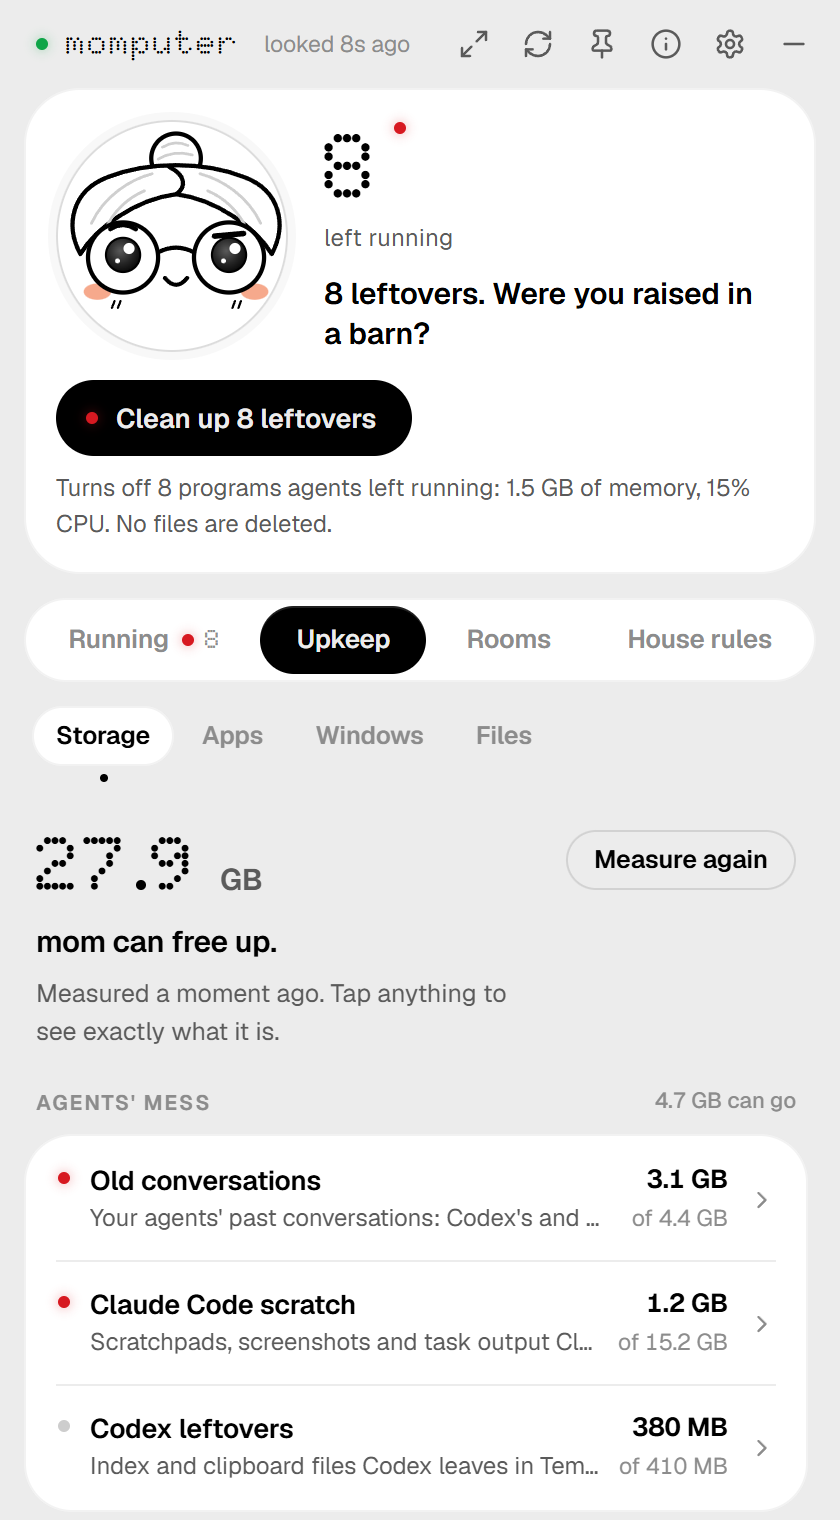
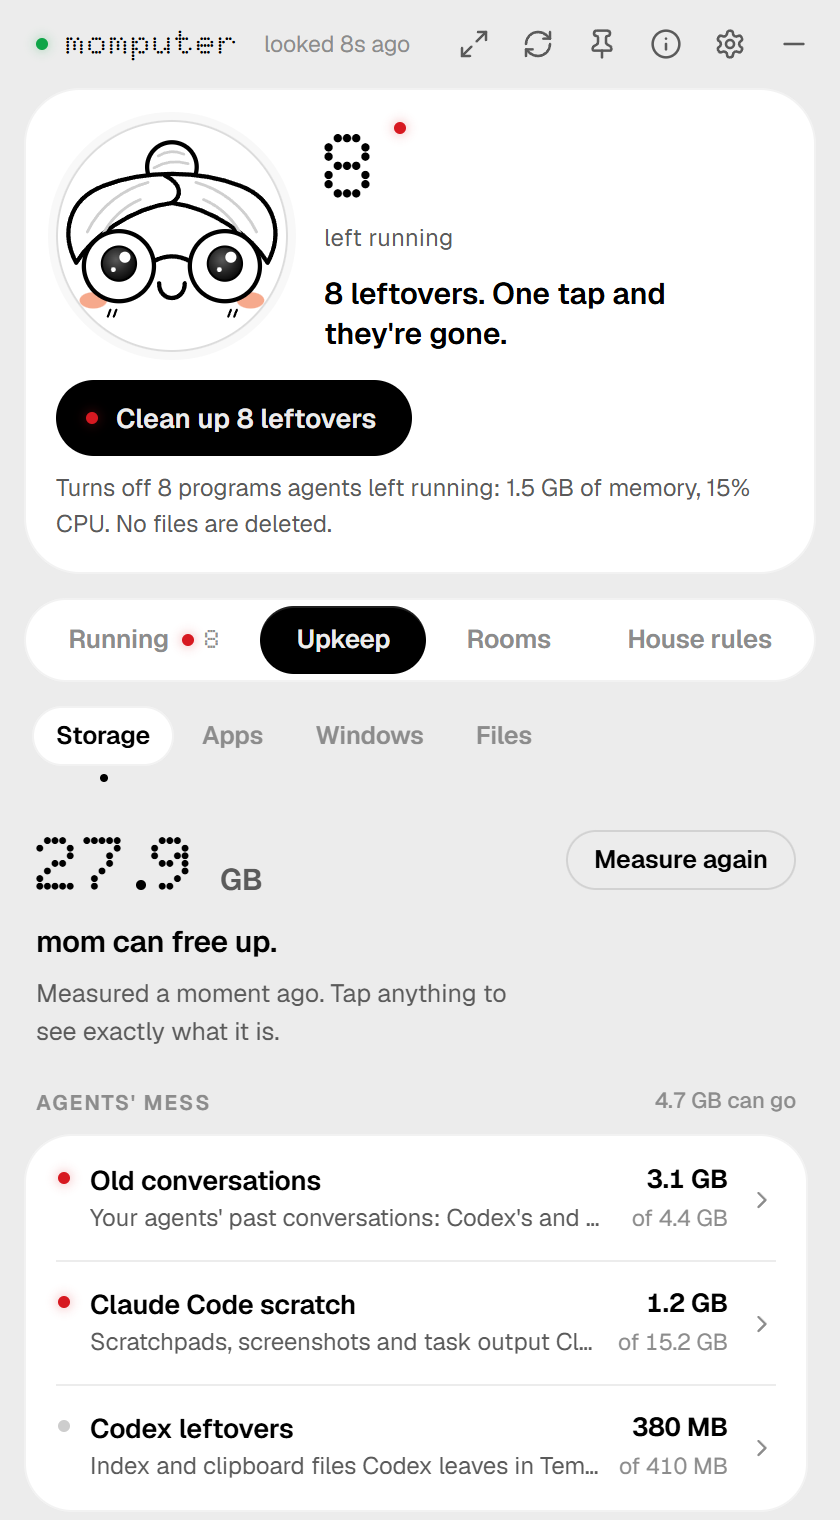
Mom helps; she doesn't tell anyone off
Her voice was 'warm, a little sassy': 'I'm not mad. I'm disappointed.', 'Were
you raised in a barn?', 'I'm counting to three.' All of it is supportive now,
everywhere she speaks: the home page ('8 leftovers. One tap and they're
gone.'), the notifications ('A few things are still running', 'Your computer
is working hard'), room grades, BIG MODE, the playroom, the mom command, and
what she tells an agent at a check-in.

Her face follows: the usual smile for a handful of leftovers and a thoughtful
look for a lot. The flat, stern and cross looks are gone.

A test goes through everything she can say about leftovers, clean-ups and
rooms and fails on any word of blame. Pictures remade from the app.

Changed region(s): [[0.0619, 0.0618, 0.3405, 0.2164], [0.5881, 0.1855, 0.8976, 0.2164], [0.3714, 0.2164, 0.5881, 0.2474]]

diff --git a/app/ui/app.js b/app/ui/app.js
@@ -349,8 +349,9 @@
   const lookedAgo = () => (state.snap ? Math.max(0, Math.floor(Date.now() / 1000) - state.snap.takenAt) : 0);
   const stale = () => !state.paused && !!state.snap && lookedAgo() > 20;
 
-  /** Mostly she smiles, "c:". A raised eyebrow once a few things pile up, a flat look when it's a
-      lot, and a stern one only when it's really bad. The light by her name says if she's stuck. */
+  /** Mostly she smiles, "c:". A thoughtful look once a lot piles up, and a worried one while
+      leftovers keep the processor busy. Never a cross one: she helps, she doesn't tell anyone off.
+      The light by her name says if she's stuck. */
   function faceNow() {
     const s = state.snap;
     if (state.paused) return "asleep";
@@ -359,10 +360,10 @@
     if (!s) return "look";
     if (melting(s)) return "melting";
     switch (s.mood.face) {
-      case "disappointed":
-        return s.mood.level >= 3 ? "unamused" : "hmm";
-      case "furious":
-        return "stern";
+      case "helping":
+        return s.mood.level >= 3 ? "hmm" : "look";
+      case "busy":
+        return "hmm";
       default:
         return "look";
     }
@@ -435,7 +436,7 @@
     }
     const alarm = $("#alarm");
     alarm.hidden = !melting(s);
-    if (melting(s)) alarm.innerHTML = `<span class="led red blink"></span>Leftovers are burning ${Math.round(s.summary.leftoverCpu)}% of your CPU.`;
+    if (melting(s)) alarm.innerHTML = `<span class="led red blink"></span>Leftovers are using ${Math.round(s.summary.leftoverCpu)}% of your CPU.`;
     const count = n > 0 ? String(n) : "";
     if ($("#count-running").textContent !== count) {
       $("#count-running").textContent = count;
@@ -1591,9 +1592,9 @@ in ${x.cwd}`)}">
     const p = bigModel().parts.find((x) => x.id === state.bigPart);
     if (p && state.system) {
       const trouble = p.checks.find((c) => c.level === "warn");
-      react(p.level === "warn" ? "stern" : p.level === "tip" || p.level === "none" ? "hmm" : "proud", 3200);
+      react(p.level === "warn" || p.level === "none" ? "hmm" : p.level === "tip" ? "look" : "proud", 3200);
       const none = p.level === "none" ? `I can't see ${p.subject.toLowerCase().replace("your ", "a ")} from here.` : "";
-      say(none || (trouble ? trouble.title + "." : p.level === "tip" ? `${p.subject} could do better.` : `${p.subject} ${p.plural ? "are" : "is"} fine, sweetie.`), 4200);
+      say(none || (trouble ? trouble.title + "." : p.level === "tip" ? `I have a tip for ${p.subject.toLowerCase()}.` : `${p.subject} ${p.plural ? "are" : "is"} fine, sweetie.`), 4200);
     }
     renderStage();
   }
@@ -2391,10 +2392,10 @@ in ${x.cwd}`)}">
   }
   const mmss = (s) => `${Math.floor(s / 60)}:${String(Math.floor(s % 60)).padStart(2, "0")}`;
   const CHORE_LINES = {
-    books: "Alphabetical? Never mind. It'll do.",
+    books: "All in a row. Lovely.",
     bed: "Hospital corners. I raised you right.",
     coffee: "Oh, you shouldn't have. c:",
-    laundry: "In the basket, not next to it. Good.",
+    laundry: "Right in the basket. Thank you, sweetie.",
     picture: "Is that me? What a lovely frame.",
     curtains: "Let the light in. Much better.",
   };
@@ -2530,7 +2531,7 @@ in ${x.cwd}`)}">
       } catch {}
     }
     playroom.el.querySelector(".pr-time").textContent = mmss(took);
-    momSays("Spotless. Who are you and what have you done with my kid?", "kiss");
+    momSays("Spotless. Beautifully done.", "kiss");
     const end = playroom.el.querySelector(".pr-end");
     end.innerHTML = `<div class="pr-end-leds" aria-hidden="true">${'<span class="led green"></span>'.repeat(6)}</div>
       <p class="pr-end-big dot num">${mmss(took)}</p>

diff --git a/app/ui/mock.js b/app/ui/mock.js
@@ -117,7 +117,7 @@
       containers: 0,
       byAgent: [],
     },
-    mood: { face: "disappointed", level: 2, line: `${left.length} leftovers. Were you raised in a barn?` },
+    mood: { face: "helping", level: 2, line: `${left.length} leftovers. One tap and they're gone.` },
   };
 
   const GB = 1024 * MB;
@@ -607,7 +607,7 @@
       : { face: "proud", level: 0, line: "All tidy. I'm proud of you, sweetie." };
     const freed = gone.reduce((a, x) => a + x.mem, 0);
     setTimeout(() => emit("snapshot", JSON.parse(JSON.stringify(snapshot))), 600);
-    return { stopped: [], alreadyGone: [], failed: [], freedMem: freed, groups: gone.length, message: gone.length === 1 ? "Turned it off. You're welcome." : `Turned off ${gone.length} things. You're welcome.` };
+    return { stopped: [], alreadyGone: [], failed: [], freedMem: freed, groups: gone.length, message: gone.length === 1 ? "Turned it off. That's memory back for you." : `Turned off ${gone.length} things. That's memory back for you.` };
   }
 
   const handlers = {

diff --git a/app/ui/mom.js b/app/ui/mom.js
@@ -133,9 +133,6 @@
     proud: { eyes: "hearts", brows: "none", mouth: "uwu", extra: "none" },
     fine: { eyes: "open", brows: "none", mouth: "grin", extra: "none" },
     hmm: { eyes: "open", brows: "hmm", mouth: "smile", extra: "none" },
-    unamused: { eyes: "flat", brows: "none", mouth: "flat", extra: "none" },
-    stern: { eyes: "open", brows: "stern", mouth: "flat", extra: "none" },
-    furious: { eyes: "open", brows: "cross", mouth: "yell", extra: "anger" },
     melting: { eyes: "open", brows: "worried", mouth: "wobble", extra: "sweat" },
     asleep: { eyes: "shut", brows: "none", mouth: "small", extra: "zzz" },
     shocked: { eyes: "open", brows: "up", mouth: "o", extra: "none" },

diff --git a/site/index.html b/site/index.html
@@ -67,7 +67,7 @@
       </div>
 
       <figure class="shot">
-        <img src="screenshot.png" width="840" height="1520" alt="The widget: mom saying 8 leftovers, were you raised in a barn?, a Clean up 8 leftovers button, and the programs Claude left running, each with a red light and a Stop button">
+        <img src="screenshot.png" width="840" height="1520" alt="The widget: mom saying 8 leftovers, one tap and they're gone, a Clean up 8 leftovers button, and the programs Claude left running, each with a red light and a Stop button">
       </figure>
     </section>
 

diff --git a/crates/mom-core/src/voice.rs b/crates/mom-core/src/voice.rs
@@ -1,4 +1,5 @@
-//! Mom's voice. Warm, a little sassy, never in the way.
+//! Mom's voice. Warm, and on your side: she notices, she offers to help, and she says well
+//! done. She never tells anyone off, about leftovers or anything else.
 //!
 //! Lines are picked deterministically from the numbers so the widget doesn't change its mind
 //! every three seconds.
@@ -6,14 +7,20 @@
 use crate::util::human_bytes;
 use serde::Serialize;
 
+/// How she looks, by how much there is to help with.
 #[derive(Clone, Copy, Debug, PartialEq, Eq, Serialize)]
 #[serde(rename_all = "kebab-case")]
 pub enum Face {
+    /// Nothing left running.
     Proud,
+    /// Nothing left behind, though something has been running a long while.
     Fine,
+    /// One or two things.
     Hmm,
-    Disappointed,
-    Furious,
+    /// A handful, or a couple of dozen: she's ready to help.
+    Helping,
+    /// A lot: sleeves rolled up.
+    Busy,
 }
 
 #[derive(Clone, Debug, Serialize)]
@@ -36,11 +43,7 @@ pub fn mood(leftovers: usize, leftover_mem: u64, forgotten: usize) -> Mood {
             Face::Proud,
             0,
             pick(
-                &[
-                    "All tidy. I'm proud of you, sweetie.",
-                    "Clean house. Go play.",
-                    "Nothing left running. Who raised you? Oh right, me.",
-                ],
+                &["All tidy. I'm proud of you, sweetie.", "Clean house. Go play.", "Nothing left running. Lovely work."],
                 (leftover_mem / 4096) as usize,
             )
             .to_string(),
@@ -49,33 +52,33 @@ pub fn mood(leftovers: usize, leftover_mem: u64, forgotten: usize) -> Mood {
             Face::Fine,
             1,
             if forgotten == 1 {
-                "Tidy enough. One thing has been running a long time though.".to_string()
+                "Looking good. One thing has been running a long while, if you'd like a look.".to_string()
             } else {
-                format!("Tidy enough. {forgotten} things have been running a long time though.")
+                format!("Looking good. {forgotten} things have been running a long while, if you'd like a look.")
             },
         ),
-        1 => (Face::Hmm, 1, "Somebody left the lights on.".to_string()),
-        2 => (Face::Hmm, 1, "Two things left running. I'll pretend I didn't see. Once.".to_string()),
+        1 => (Face::Hmm, 1, "One thing is still running. I can turn it off for you.".to_string()),
+        2 => (Face::Hmm, 1, "Two things are still running. Want me to turn them off?".to_string()),
         3..=9 => (
-            Face::Disappointed,
+            Face::Helping,
             2,
             pick(
                 &[
-                    "Who left {n} things running? I'm not mad. I'm disappointed.",
-                    "{n} leftovers. Were you raised in a barn?",
-                    "{n} things running and nobody's using them. Lights. Off.",
+                    "{n} things are still running. I'll tidy up whenever you're ready.",
+                    "{n} leftovers. One tap and they're gone.",
+                    "{n} things running that nobody's using. Happy to turn them off.",
                 ],
                 n,
             )
             .replace("{n}", &n.to_string()),
         ),
         10..=24 => (
-            Face::Disappointed,
+            Face::Helping,
             3,
             pick(
                 &[
-                    "{n} leftovers eating {mem}. Does memory grow on trees?",
-                    "{n} things running for nobody. That's {mem} of RAM, young agent.",
+                    "{n} leftovers are using {mem}. Let's get that memory back.",
+                    "{n} things running for nobody, using {mem}. I've got this whenever you say.",
                 ],
                 n,
             )
@@ -83,9 +86,9 @@ pub fn mood(leftovers: usize, leftover_mem: u64, forgotten: usize) -> Mood {
             .replace("{mem}", &mem),
         ),
         _ => (
-            Face::Furious,
+            Face::Busy,
             4,
-            "{n} leftovers hogging {mem}. I'm counting to three."
+            "{n} leftovers are using {mem}. Busy day! Let's clear them together."
                 .replace("{n}", &n.to_string())
                 .replace("{mem}", &mem),
         ),
@@ -96,8 +99,8 @@ pub fn mood(leftovers: usize, leftover_mem: u64, forgotten: usize) -> Mood {
 pub fn stopped(n: usize, freed: u64) -> String {
     match n {
         0 => "Nothing needed turning off.".to_string(),
-        1 => format!("Turned it off. {} back. You're welcome.", human_bytes(freed)),
-        _ => format!("Turned off {n} things. {} back. You're welcome.", human_bytes(freed)),
+        1 => format!("Turned it off. {} back for you.", human_bytes(freed)),
+        _ => format!("Turned off {n} things. {} back for you.", human_bytes(freed)),
     }
 }
 
@@ -109,14 +112,14 @@ pub fn cleaned(freed: u64) -> String {
     }
 }
 
-/// What mom says about a room. Even an F gets help, not a telling-off.
+/// What mom says about a room. Whatever the grade, she's glad to help.
 pub fn room(grade: char, name: &str) -> String {
     let this = if name.eq_ignore_ascii_case("desktop") { "this desktop" } else { "this folder" };
     match grade {
-        'A' => "Spotless. Who are you and what have you done with my kid?".into(),
-        'B' => "Not bad at all. Just a few things to put away.".into(),
-        'C' => "I can see the floor. Let's find the rest of it.".into(),
-        'D' => format!("Bit of a mess. We'll have {this} sorted before dinner c:"),
+        'A' => "Spotless. Beautifully kept.".into(),
+        'B' => "Looking good. Just a few things to put away.".into(),
+        'C' => "A good start. Let's put a few more things away.".into(),
+        'D' => format!("We'll have {this} sorted in no time c:"),
         _ => format!("Let's clean {this} together c:"),
     }
 }
@@ -132,7 +135,33 @@ mod tests {
         assert!(mood(5, 0, 0).line.contains('5'));
         let m = mood(14, 3 * 1024 * 1024 * 1024, 0);
         assert!(m.line.contains("14") && m.line.contains("3.0 GB"), "{}", m.line);
-        assert_eq!(mood(40, 0, 0).face, Face::Furious);
+        assert_eq!(mood(40, 0, 0).face, Face::Busy);
+        assert_eq!((mood(5, 0, 0).face, mood(14, 0, 0).face), (Face::Helping, Face::Helping));
+    }
+
+    #[test]
+    fn she_never_tells_anyone_off() {
+        // Whatever the numbers, what she says helps: no blame, no sarcasm, no telling-off.
+        const NEVER: &[&str] = &[
+            "mad", "disappoint", "barn", "raised", "young", "counting", "hogging", "who left", "pretend", "grow on trees", "lights. off",
+            "you're welcome", "mess", "shame", "bad", "again?", "how many", "told you",
+        ];
+        let mut said: Vec<String> = Vec::new();
+        for n in 0..60 {
+            for mem in [0u64, 4096, 8192, 3 << 30] {
+                for forgotten in [0, 1, 4] {
+                    said.push(mood(n, mem, forgotten).line);
+                }
+            }
+            said.push(stopped(n, 1 << 20));
+        }
+        said.extend(['A', 'B', 'C', 'D', 'F'].iter().flat_map(|g| [room(*g, "Desktop"), room(*g, "Downloads")]));
+        said.push(cleaned(0));
+        said.push(cleaned(5 << 20));
+        for line in &said {
+            let low = line.to_lowercase();
+            assert!(!NEVER.iter().any(|w| low.contains(w)), "{line}");
+        }
     }
 
     #[test]

diff --git a/app/src-tauri/src/main.rs b/app/src-tauri/src/main.rs
@@ -364,14 +364,14 @@ fn alerts(app: &AppHandle, s: &Shared, cfg: &Config, snap: &Snapshot) {
         let more = if ripe.len() > 3 { format!(" and {} more", ripe.len() - 3) } else { String::new() };
         let mem: u64 = ripe.iter().map(|g| g.mem).sum();
         let body = format!(
-            "{who} left {} thing{} running: {}{more} ({}). Open momputer to turn {} off.",
+            "{who} left {} thing{} running: {}{more} ({}). Open momputer and I'll turn {} off.",
             ripe.len(),
             if ripe.len() == 1 { "" } else { "s" },
             what.join(", "),
             human_bytes(mem),
             if ripe.len() == 1 { "it" } else { "them" }
         );
-        toast(app, "Somebody left the lights on", &body);
+        toast(app, if ripe.len() == 1 { "Something is still running" } else { "A few things are still running" }, &body);
         *last_toast = now;
         seen.extend(ripe.iter().map(|g| g.id.clone()));
     }
@@ -386,11 +386,11 @@ fn alerts(app: &AppHandle, s: &Shared, cfg: &Config, snap: &Snapshot) {
     let lasting = melting_since.is_some_and(|t| now.saturating_sub(t) >= 120);
     if ui.notifications && ui.notify_meltdown && lasting && now.saturating_sub(*last_alarm) >= 3600 {
         let body = format!(
-            "Leftovers have been burning {:.0}% of your CPU for a while ({} things). Open momputer and press Clean up.",
+            "Leftovers have been using {:.0}% of your CPU for a while ({} things). Open momputer and I'll clear them.",
             snap.summary.leftover_cpu, snap.summary.leftovers
         );
-        toast(app, "Your computer is melting", &body);
-        s.note(format!("Meltdown alarm: leftovers at {:.0}% CPU.", snap.summary.leftover_cpu));
+        toast(app, "Your computer is working hard", &body);
+        s.note(format!("Said so: leftovers at {:.0}% CPU.", snap.summary.leftover_cpu));
         *last_alarm = now;
     }
 }

diff --git a/crates/mom-core/src/hooks.rs b/crates/mom-core/src/hooks.rs
@@ -322,7 +322,7 @@ fn stop(agent: HookAgent, inp: &HookInput, cfg: &Config, paths: &Paths, file: &P
     }
     if !mess.is_empty() {
         mess.truncate(10);
-        reason.push_str(&format!("\nNew mess in {}:\n", inp.cwd));
+        reason.push_str(&format!("\nNew in {} and not put away yet:\n", inp.cwd));
         reason.push_str(&mess.join("\n"));
         reason.push_str("\nPut it where it belongs (and fix anything that points at the old path), or delete it if it has no further use.\n");
     }

diff --git a/crates/mom-cli/src/main.rs b/crates/mom-cli/src/main.rs
@@ -1171,7 +1171,7 @@ fn print_spot(st: &Style, s: &trash::Spot) {
 fn print_health(st: &Style, h: &mom_core::health::Health) {
     let warns = h.checks.iter().filter(|c| c.level == "warn").count();
     let line = match warns {
-        0 => "Clean bill of health. Mostly.".to_string(),
+        0 => "Clean bill of health.".to_string(),
         1 => "One thing needs your attention, sweetie.".to_string(),
         n => format!("{n} things need your attention, sweetie."),
     };

diff --git a/docs/in-detail.md b/docs/in-detail.md
@@ -133,7 +133,7 @@ momputer reads those markers (and only those: never the rest of a process's envi
 
 1. **Is the agent still around?** Claude Code records the PID of the session that launched each command. If that process is gone, whatever it started is *left behind*.
 2. **Is the parent really the parent?** Windows reuses PIDs. A "parent" that started after its child is an impostor, so the child is an *orphan*.
-3. **Harness or task?** Claude Code marks its own MCP servers `_harness` and the commands it runs `_agent`, so mom never nags about an agent's helpers, only about what it chose to start.
+3. **Harness or task?** Claude Code marks its own MCP servers `_harness` and the commands it runs `_agent`, so mom never brings up an agent's helpers, only what it chose to start.
 4. **Circumstantial evidence.** Git Bash's `sleep` and `tail` can't carry markers, so mom also uses fingerprints in paths (Claude's scratch folders are named after the session) and timing (started in the same folder after a live session began).
 5. **Nobody's?** Dev runtimes whose parent is gone and carry no fingerprints are *orphaned*. Your own browser, your terminal's processes and apps' bundled runtimes (Adobe's private `node.exe`, say) are left alone.
 

diff --git a/skills/mom/SKILL.md b/skills/mom/SKILL.md
@@ -6,7 +6,7 @@ license: Apache-2.0 (complete terms in LICENSE.txt)
 
 # Mom
 
-You share this computer with a human and many other agents. Most leftover node, bun and python processes, forgotten containers, screenshot piles and dated report folders come from agents that finished a task and walked away. Don't be one of them.
+You share this computer with a human and many other agents. Most leftover node, bun and python processes, forgotten containers, screenshot piles and dated report folders come from agents that finished a task without tidying up. A minute of tidying at the end keeps the place nice for everyone.
 
 ## Before you say you're done
 
